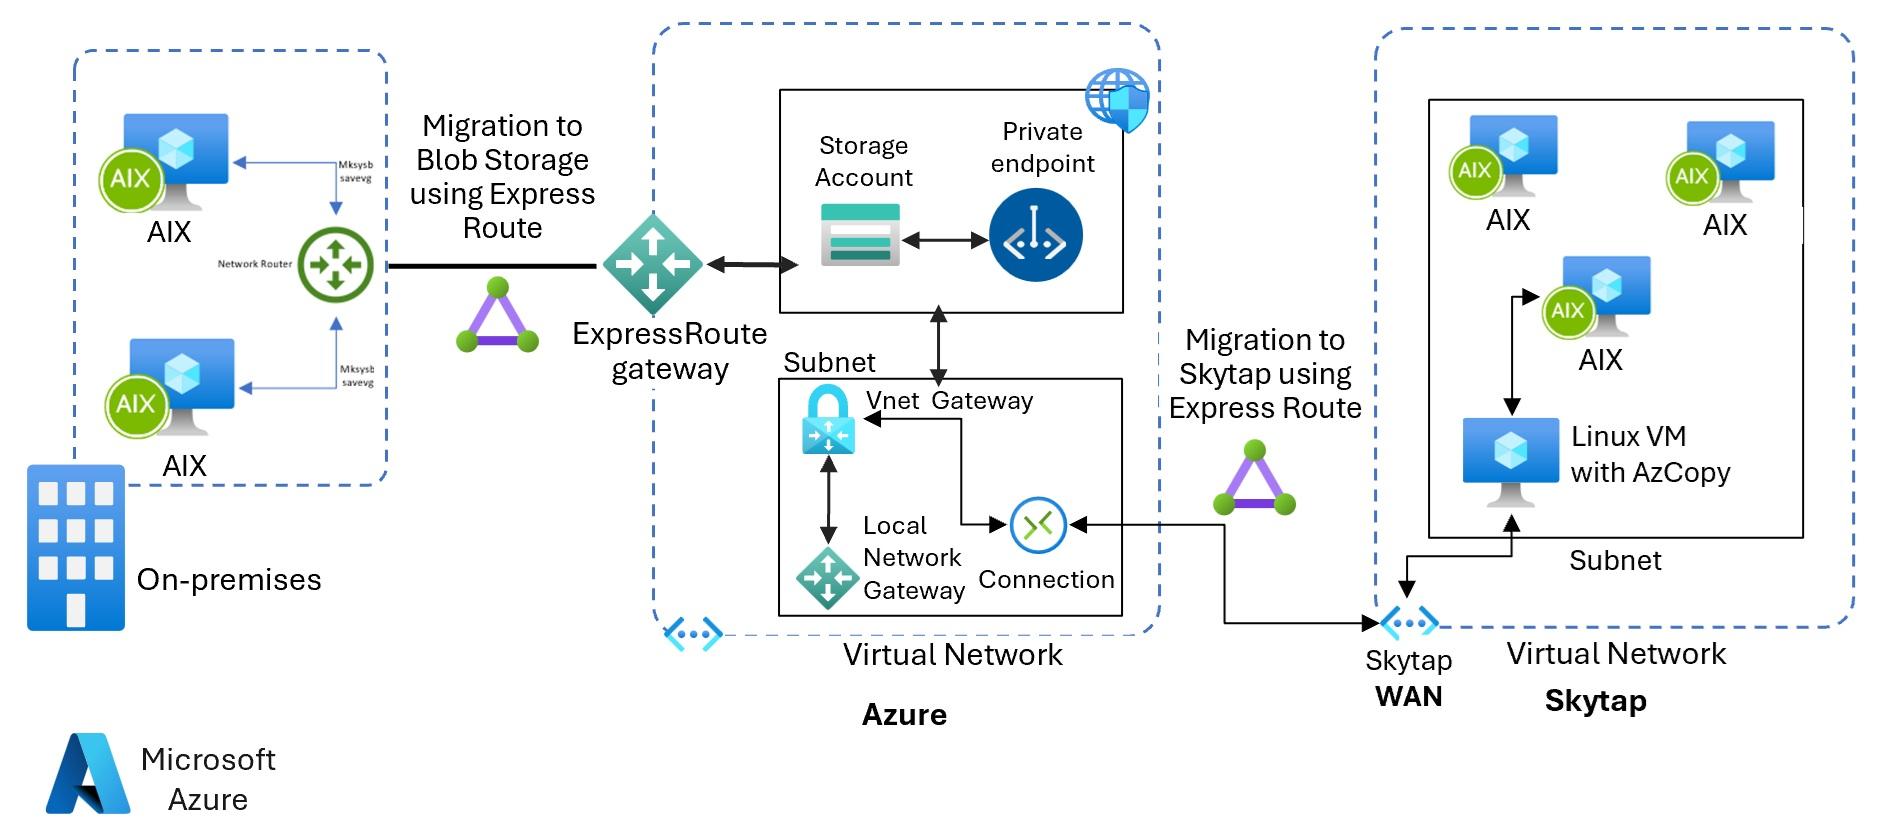
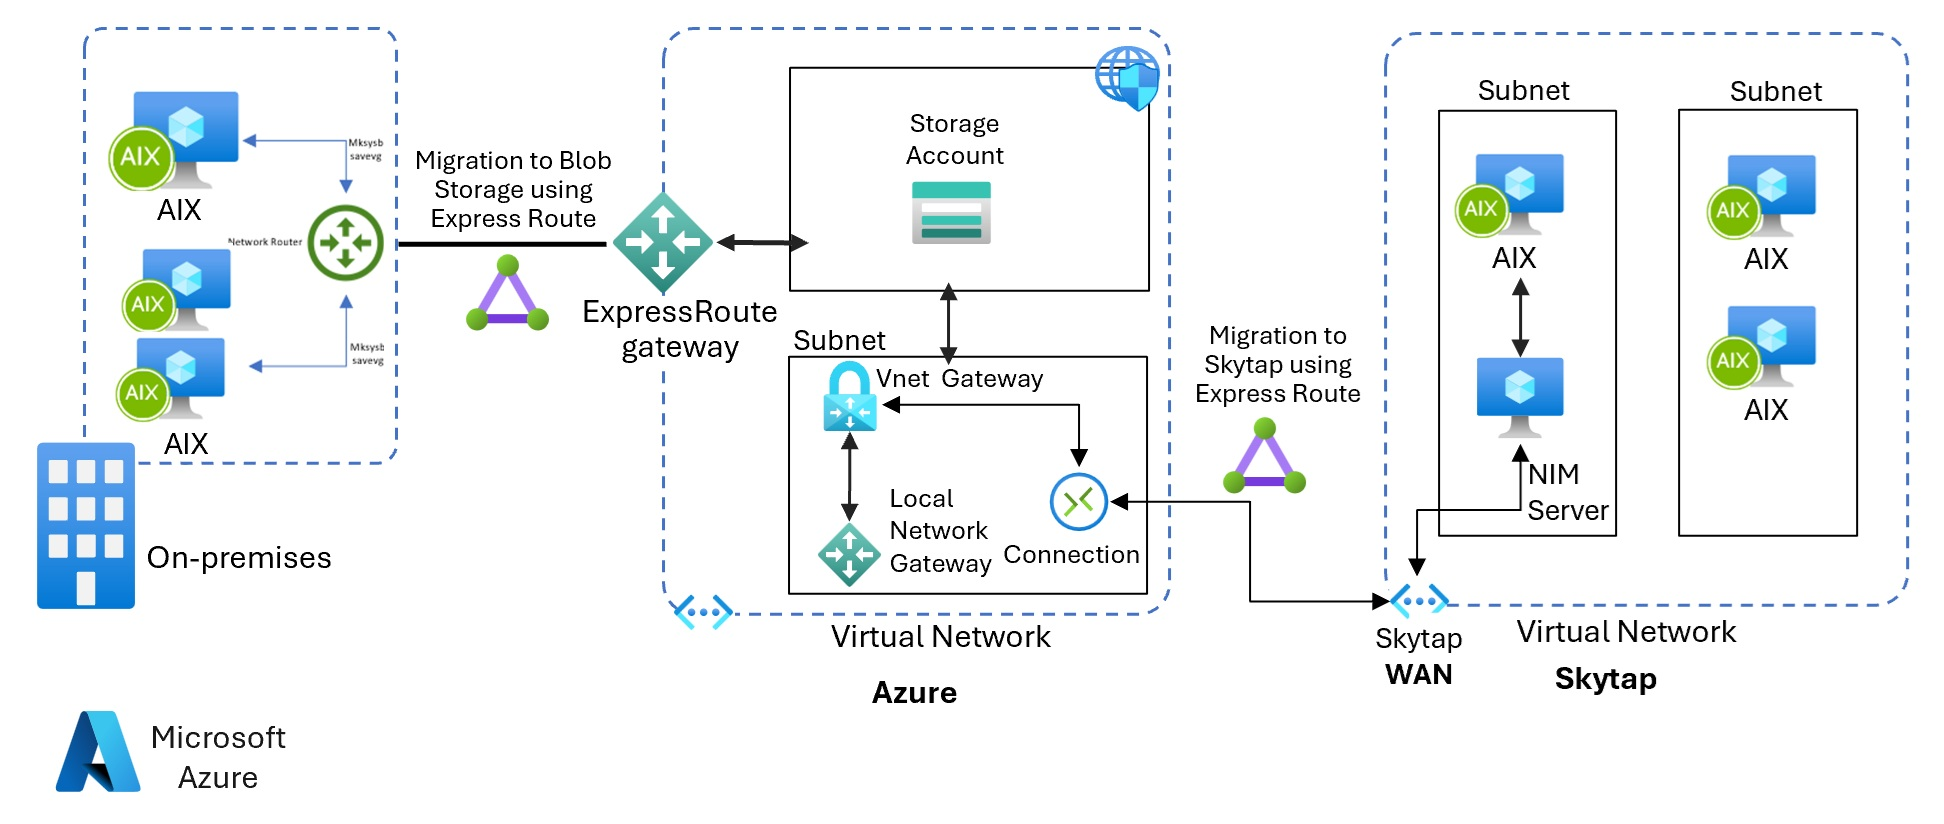
update readme

diff --git a/docs/aix/aix-landing-zone.md b/docs/aix/aix-landing-zone.md
@@ -7,31 +7,47 @@ Skytap on Azure streamlines the cloud migration process for applications operati
 ![AIX Landing Zone Architecture](/assets/images/aix-landing-zone-architecture.jpg)
 
 
-This architecture diagram illustrates the migration of AIX systems from an on-premises environment to Microsoft Azure and Skytap, leveraging Azure services for enhanced networking and storage solutions. Here's a detailed breakdown of the components and their functions within this migration process:
+This architecture diagram outlines a structured approach for migrating AIX systems from an on-premises environment to Skytap on Azure. Let's explore each component and understand the flow of the migration process:
 
-### On-premises Environment:
-- **AIX Systems**: These are the IBM AIX (Advanced Interactive eXecutive) systems that are currently operating in an on-premises data center. AIX is an enterprise-class UNIX operating system that runs on IBM systems.
+### **On-premises Environment**
+- **AIX Systems**: These are the IBM AIX servers located in your local data center.
 
-### Microsoft Azure Components:
+### **Microsoft Azure Components**
 - **ExpressRoute Gateway**: This component is used to establish a dedicated and private connection from the on-premises network to Microsoft Azure. It offers more reliability, faster speeds, and lower latencies than typical Internet-based connections.
 - **Virtual Network (VNet)**: This is the fundamental building block for your private network in Azure. VNets allow many types of Azure resources, such as Azure Virtual Machines (VM), to securely communicate with each other, the internet, and on-premises networks.
-- **Subnet**: A subnet is a range of IP addresses in the VNet. You can divide a VNet into multiple subnets for organizational and security purposes.
-- **VNet Gateway**: This component is used to connect VNets to each other or with on-premises networks. It acts as a router or a gateway that routes traffic accordingly.
-- **Local Network Gateway**: This logical object represents the on-premises network in Azure to facilitate the routing of data.
-- **Storage Account**: Azure Storage Accounts provide a unique namespace to store and access your Azure storage data objects. Here it is used to store data from AIX systems.
-- **Private Endpoint**: A private endpoint is a network interface that connects you privately and securely to a service powered by Azure Private Link. Here, it's used to ensure secure access to the Azure Storage Account.
+- **Subnet**: Subnets further segment the VNet, allowing you to organize and secure resources in discrete sections. This control can optimize network performance and apply different security policies.
+- **VNet Gateway**: This connects different VNets together or connects VNets with on-premises networks. It is essential for routing traffic correctly within the Azure environment.
+- **Local Network Gateway**: Represents the on-premises network within Azure. It is configured with the on-premises VPN device to establish a gateway-to-gateway VPN connection.
+- **Storage Account**: Azure Storage Accounts provide a unique namespace to store and access your Azure storage data objects. Here it is used to store the Mksysb backup from the on-premises AIX systems.
 
-### Migration Pathways:
-- **Migration to Blob Storage using ExpressRoute**: Data from the AIX systems is migrated to Azure Blob Storage via ExpressRoute, ensuring a fast and secure data transfer.
-- **Migration to Skytap using ExpressRoute**: Another pathway is directly migrating AIX systems to Skytap, an environment in Azure tailored for running traditional workloads like AIX.
+### **Skytap on Azure**
+- **Skytap WAN**: This feature connects the Skytap environment in Azure with other networks, such as your on-premises network or other parts of Azure through VPNs or Expres Route customer managed circuits.
+- **Subnets**: In Skytap, subnets are used within the virtual network to segment and manage the AIX workloads logically.
+- **NIM Server**: The Network Installation Management (NIM) server is a critical component in AIX environments. It manages the installation and maintenance of AIX systems, acting as a server from which other AIX clients can install required software and updates.
 
-### Skytap Environment:
-- **Skytap WAN**: This component represents the wide area network configuration within Skytap, which supports connectivity back to Azure or on-premises environments.
-- **Linux VM with AzCopy**: This Virtual Machine in Skytap runs Linux and uses AzCopy, a command-line utility designed to copy data to/from Azure Blob storage and between Azure Blob storage accounts.
+### **Migration Pathways**
+1. **Migration to Blob Storage Using ExpressRoute**: This pathway involves transferring data from the on-premises AIX systems to Azure Blob Storage through ExpressRoute. This is typically an initial step to securely store the Mksysb backup of the on-premises AIX.
+   
+2. **Migration to Skytap Using ExpressRoute**: Following the backup, the actual system migration takes place where the AIX workloads are transferred from the Azure Blob Storage to the Skytap environment on Azure. This is  facilitated by ExpressRoute or a VPN to ensure a secure and smooth transfer.
 
-### General Flow:
-1. **Data Transfer**: Data from the on-premises AIX systems is transferred to Azure Blob Storage using ExpressRoute for speed and security.
-2. **Networking Setup**: The entire transfer and subsequent communications are managed through a series of gateways and private endpoints that ensure the traffic is secure and efficient.
-3. **Utilization in Skytap**: Post migration, AIX systems can be managed in Skytap or Azure, with specific configurations done through VNets and subnets in Azure.
+### **Overall Flow**
+Follow these assertive steps to efficiently migrate AIX systems from an on-premises environment to Skytap on Azure:
 
-This setup ensures a smooth transition of AIX systems to a cloud environment, leveraging Azure's robust networking capabilities for an efficient and secure migration process.
+1. **Prepare On-premises AIX Systems**: Start by performing Mksysb backups of the on-premises AIX systems to secure your data.
+
+2. **Replicate Data to Azure Blob Storage**: Transfer the mksysb backups to Azure Blob Storage using ExpressRoute or VPN for enhanced security and reliability.
+
+3. **Migrate Backups to Skytap**: Utilize ExpressRoute or VPN to transfer the mksysb backup files to Skytap. Securely copy these files to the Network Installation Management (NIM) server using SCP. (https://winscp.net/download/WinSCP-6.3.4-Setup.exe/download)
+
+4. **Restore Mksysb Files**: Initiate the Mksysb restoration process on the target systems within Skytap.
+
+5. **Add Filesystem to Restored LPARs**: Include necessary temporary space on the restored Logical Partitions (LPARs) for savevg and database files.
+
+6. **Transfer Additional Backup Files (copy savevg and DB files to temporary disk on restore target)**: Copy savevg and database files to the temporary disk space allocated on the restoration targets.
+
+7. **Restore Savevg and Database Files**: Complete the restoration of savevg and database files to ensure all system and application data is accurately reinstated.
+
+8. **Manage and Maintain AIX Environments in Skytap**: Use the NIM server within Skytap to manage and maintain the AIX environments, ensuring optimal performance and efficient operation in their new cloud context.
+
+**Important Note**: Be mindful that Skytap has a storage limitation of 4 TB for x86 VMs. This constraint means that using a Windows VM in Skytap with azcopy might not be feasible for handling large data volumes due to insufficient storage capacity. Plan accordingly to accommodate data management within these limits.
+
